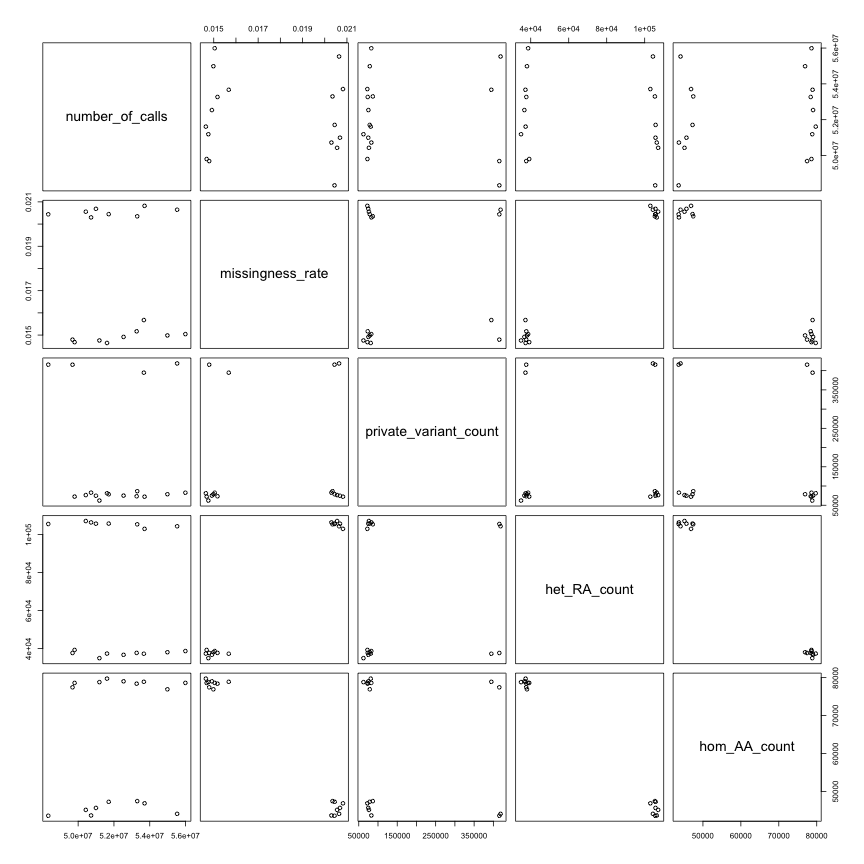
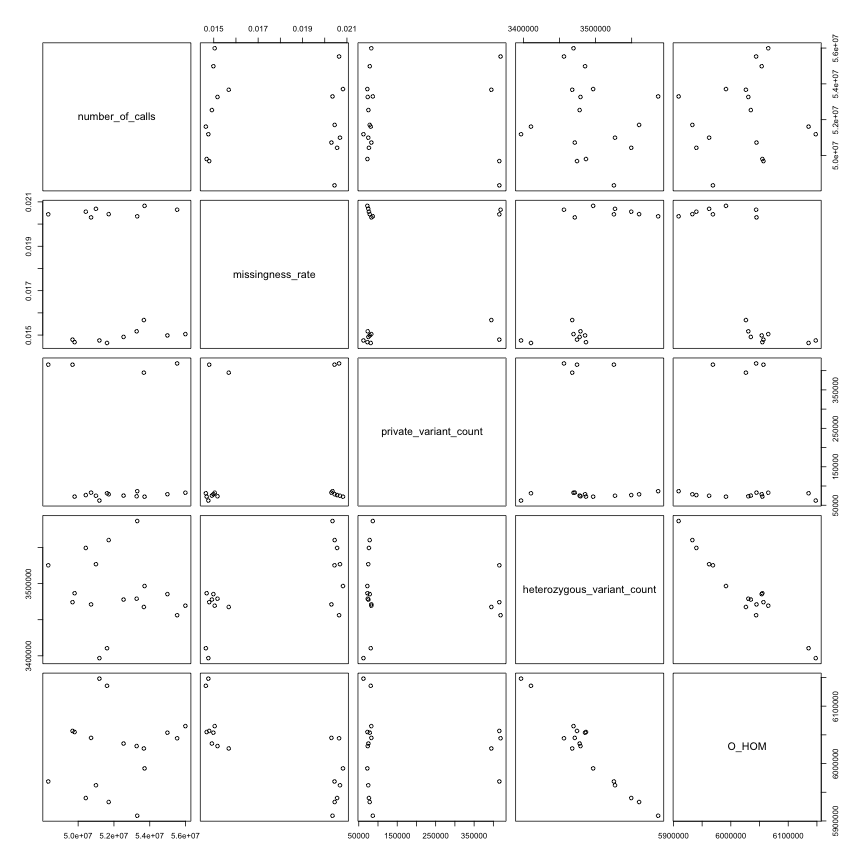
Re-render analyses.

diff --git a/R/PlatinumGenomes-QC/Sample-Level-QC.md b/R/PlatinumGenomes-QC/Sample-Level-QC.md
@@ -71,19 +71,22 @@ FROM
   [genomics-public-data:platinum_genomes.variants]
 GROUP BY
   call.call_set_name
+ORDER BY
+  call.call_set_name
+  
 ```
 Number of rows returned by this query: **17**.
 
 Displaying the first few rows of the dataframe of results:
 <!-- html table generated in R 3.2.0 by xtable 1.7-4 package -->
-<!-- Mon Nov 16 17:32:28 2015 -->
+<!-- Mon Nov 16 19:59:22 2015 -->
 <table border=1>
 <tr> <th> call_call_set_name </th> <th> number_of_calls </th>  </tr>
-  <tr> <td> NA12889 </td> <td align="right"> 49686680 </td> </tr>
-  <tr> <td> NA12886 </td> <td align="right"> 49802228 </td> </tr>
-  <tr> <td> NA12888 </td> <td align="right"> 53267797 </td> </tr>
-  <tr> <td> NA12890 </td> <td align="right"> 55528744 </td> </tr>
+  <tr> <td> NA12877 </td> <td align="right"> 51612762 </td> </tr>
   <tr> <td> NA12878 </td> <td align="right"> 50722005 </td> </tr>
+  <tr> <td> NA12879 </td> <td align="right"> 50994084 </td> </tr>
+  <tr> <td> NA12880 </td> <td align="right"> 51707412 </td> </tr>
+  <tr> <td> NA12881 </td> <td align="right"> 53298483 </td> </tr>
   <tr> <td> NA12882 </td> <td align="right"> 51187390 </td> </tr>
    </table>
 
@@ -172,7 +175,7 @@ Number of rows returned by this query: **17**.
 
 Displaying the first few rows of the dataframe of results:
 <!-- html table generated in R 3.2.0 by xtable 1.7-4 package -->
-<!-- Mon Nov 16 17:32:31 2015 -->
+<!-- Mon Nov 16 19:59:24 2015 -->
 <table border=1>
 <tr> <th> call_call_set_name </th> <th> no_calls </th> <th> all_calls </th> <th> missingness_rate </th>  </tr>
   <tr> <td> NA12877 </td> <td align="right"> 41927032 </td> <td align="right"> 2147483647 </td> <td align="right"> 0.01 </td> </tr>
@@ -315,7 +318,7 @@ Number of rows returned by this query: **17**.
 
 Displaying the first few rows of the dataframe of results:
 <!-- html table generated in R 3.2.0 by xtable 1.7-4 package -->
-<!-- Mon Nov 16 17:32:34 2015 -->
+<!-- Mon Nov 16 19:59:27 2015 -->
 <table border=1>
 <tr> <th> call_call_set_name </th> <th> private_variant_count </th>  </tr>
   <tr> <td> NA12890 </td> <td align="right"> 418760 </td> </tr>
@@ -411,7 +414,7 @@ Number of rows returned by this query: **17**.
 
 Displaying the first few rows of the dataframe of results:
 <!-- html table generated in R 3.2.0 by xtable 1.7-4 package -->
-<!-- Mon Nov 16 17:32:36 2015 -->
+<!-- Mon Nov 16 19:59:29 2015 -->
 <table border=1>
 <tr> <th> call_call_set_name </th> <th> heterozygous_variant_count </th>  </tr>
   <tr> <td> NA12877 </td> <td align="right"> 3410507 </td> </tr>
@@ -528,7 +531,7 @@ Number of rows returned by this query: **17**.
 
 Displaying the first few rows of the dataframe of results:
 <!-- html table generated in R 3.2.0 by xtable 1.7-4 package -->
-<!-- Mon Nov 16 17:32:39 2015 -->
+<!-- Mon Nov 16 19:59:33 2015 -->
 <table border=1>
 <tr> <th> call_call_set_name </th> <th> O_HOM </th> <th> E_HOM </th> <th> N_SITES </th> <th> F </th>  </tr>
   <tr> <td> NA12877 </td> <td align="right"> 6135459 </td> <td align="right"> 6770355.20 </td> <td align="right"> 9546033 </td> <td align="right"> -0.23 </td> </tr>
@@ -632,7 +635,7 @@ Number of rows returned by this query: **17**.
 
 Displaying the first few rows of the dataframe of results:
 <!-- html table generated in R 3.2.0 by xtable 1.7-4 package -->
-<!-- Mon Nov 16 17:32:42 2015 -->
+<!-- Mon Nov 16 19:59:36 2015 -->
 <table border=1>
 <tr> <th> call_call_set_name </th> <th> perct_het_alt_in_snvs </th> <th> perct_hom_alt_in_snvs </th> <th> hom_AA_count </th> <th> het_RA_count </th> <th> hom_RR_count </th>  </tr>
   <tr> <td> NA12877 </td> <td align="right"> 0.32 </td> <td align="right"> 0.68 </td> <td align="right"> 79739 </td> <td align="right"> 37299 </td> <td align="right"> 212773 </td> </tr>
@@ -773,7 +776,7 @@ Let's wrap up with a quick comparison using a few the variables we've collected 
 
 ```r
 plot(dplyr::select(allResults, number_of_calls, missingness_rate,
-                   private_variant_count, het_RA_count, hom_AA_count))
+                   private_variant_count, heterozygous_variant_count, O_HOM))
 ```
 
 <img src="figure/summary-1.png" title="plot of chunk summary" alt="plot of chunk summary" style="display: block; margin: auto;" />
